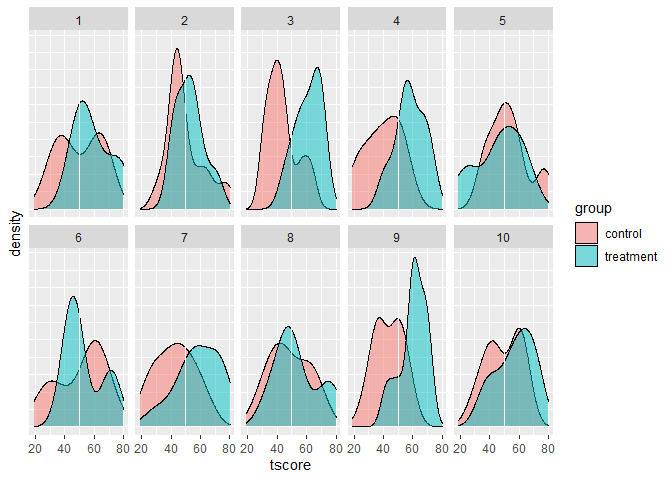
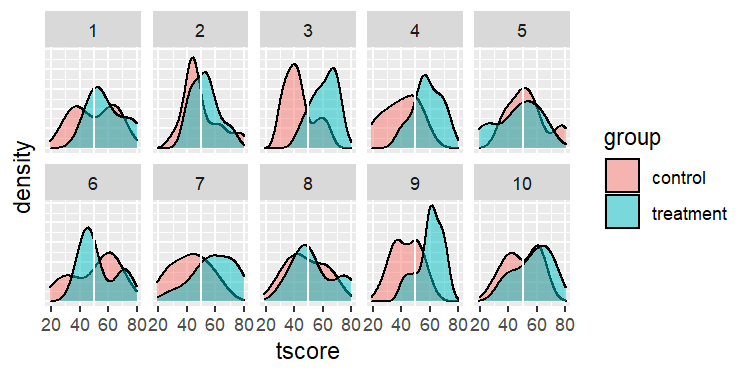
Renamed `levels` argument to `n_levels` since the former is a common keyword with factors

diff --git a/README.md b/README.md
@@ -28,7 +28,7 @@ The data simulation process is modularized as follows:
 1.  Simulate a number of subjects and assign to groups with
     `sim_subjects()`.
 2.  For each subject, simulate a number of goals with `sim_goals()`.
-3.  For each subject goal, simulate a treatment effect with
+3.  For each goal, simulate a treatment effect with
     `sim_treatment_effect()`.
 4.  For each goal, simulate a goal weight with `sim_goal_weights()`.
 5.  Get continuous latent goal scores by adding up the fixed and random
@@ -44,7 +44,7 @@ library(gasr)
 library(tidyverse, quietly = TRUE)
 #> -- Attaching packages --------------------------------------- tidyverse 1.3.1 --
 #> v ggplot2 3.3.3     v purrr   0.3.4
-#> v tibble  3.1.1     v dplyr   1.0.6
+#> v tibble  3.1.2     v dplyr   1.0.6
 #> v tidyr   1.1.3     v stringr 1.4.0
 #> v readr   1.4.0     v forcats 0.5.1
 #> -- Conflicts ------------------------------------------ tidyverse_conflicts() --
@@ -59,8 +59,8 @@ glimpse(gas_data)
 #> Rows: 50
 #> Columns: 3
 #> $ subject_id <chr> "S01", "S02", "S03", "S04", "S05", "S06", "S07", "S08", "S0~
-#> $ group      <fct> treatment, treatment, treatment, treatment, control, treatm~
-#> $ subject_re <dbl> 0.675412780, 0.290050723, -0.118313930, 0.703174467, 0.1851~
+#> $ group      <fct> control, treatment, treatment, treatment, control, treatmen~
+#> $ subject_re <dbl> 0.31952073, -0.27143896, 0.07326835, 0.27080308, 0.27568744~
 ```
 
 Add between 3 and 6 goals to each subject:
@@ -72,10 +72,10 @@ glimpse(gas_data)
 #> Rows: 50
 #> Columns: 5
 #> $ subject_id <chr> "S01", "S02", "S03", "S04", "S05", "S06", "S07", "S08", "S0~
-#> $ group      <fct> treatment, treatment, treatment, treatment, control, treatm~
-#> $ subject_re <dbl> 0.675412780, 0.290050723, -0.118313930, 0.703174467, 0.1851~
-#> $ n_goals    <int> 3, 3, 6, 3, 3, 6, 6, 6, 5, 3, 3, 6, 4, 5, 3, 4, 3, 4, 3, 3,~
-#> $ goals      <list> [<tbl_df[3 x 2]>], [<tbl_df[3 x 2]>], [<tbl_df[6 x 2]>], [~
+#> $ group      <fct> control, treatment, treatment, treatment, control, treatmen~
+#> $ subject_re <dbl> 0.31952073, -0.27143896, 0.07326835, 0.27080308, 0.27568744~
+#> $ n_goals    <int> 6, 6, 6, 5, 3, 6, 6, 5, 5, 6, 4, 4, 5, 5, 6, 3, 3, 6, 6, 5,~
+#> $ goals      <list> [<tbl_df[6 x 2]>], [<tbl_df[6 x 2]>], [<tbl_df[6 x 2]>], [~
 ```
 
 Note that `goals` is returned as a list column, so that the data frame
@@ -86,14 +86,14 @@ unnested with `tidyr` to return a data frame with one row per goal:
 gas_data %>%
   unnest(goals) %>%
   glimpse()
-#> Rows: 215
+#> Rows: 232
 #> Columns: 6
-#> $ subject_id <chr> "S01", "S01", "S01", "S02", "S02", "S02", "S03", "S03", "S0~
-#> $ group      <fct> treatment, treatment, treatment, treatment, treatment, trea~
-#> $ subject_re <dbl> 0.6754128, 0.6754128, 0.6754128, 0.2900507, 0.2900507, 0.29~
-#> $ n_goals    <int> 3, 3, 3, 3, 3, 3, 6, 6, 6, 6, 6, 6, 3, 3, 3, 3, 3, 3, 6, 6,~
-#> $ goal_num   <int> 1, 2, 3, 1, 2, 3, 1, 2, 3, 4, 5, 6, 1, 2, 3, 1, 2, 3, 1, 2,~
-#> $ goal_re    <dbl> 0.06895941, -0.35556240, -0.22453037, 0.12750825, -0.070752~
+#> $ subject_id <chr> "S01", "S01", "S01", "S01", "S01", "S01", "S02", "S02", "S0~
+#> $ group      <fct> control, control, control, control, control, control, treat~
+#> $ subject_re <dbl> 0.31952073, 0.31952073, 0.31952073, 0.31952073, 0.31952073,~
+#> $ n_goals    <int> 6, 6, 6, 6, 6, 6, 6, 6, 6, 6, 6, 6, 6, 6, 6, 6, 6, 6, 5, 5,~
+#> $ goal_num   <int> 1, 2, 3, 4, 5, 6, 1, 2, 3, 4, 5, 6, 1, 2, 3, 4, 5, 6, 1, 2,~
+#> $ goal_re    <dbl> -0.41899812, 0.14710269, -0.30369118, -0.07223033, 0.359862~
 ```
 
 A randomly sampled treatment effect can be added to each goal. This
@@ -113,10 +113,10 @@ glimpse(gas_data_nested)
 #> Rows: 50
 #> Columns: 5
 #> $ subject_id <chr> "S01", "S02", "S03", "S04", "S05", "S06", "S07", "S08", "S0~
-#> $ group      <fct> treatment, treatment, treatment, treatment, control, treatm~
-#> $ subject_re <dbl> 0.675412780, 0.290050723, -0.118313930, 0.703174467, 0.1851~
-#> $ n_goals    <int> 3, 3, 6, 3, 3, 6, 6, 6, 5, 3, 3, 6, 4, 5, 3, 4, 3, 4, 3, 3,~
-#> $ goals      <list> [<tbl_df[3 x 3]>], [<tbl_df[3 x 3]>], [<tbl_df[6 x 3]>], [~
+#> $ group      <fct> control, treatment, treatment, treatment, control, treatmen~
+#> $ subject_re <dbl> 0.31952073, -0.27143896, 0.07326835, 0.27080308, 0.27568744~
+#> $ n_goals    <int> 6, 6, 6, 5, 3, 6, 6, 5, 5, 6, 4, 4, 5, 5, 6, 3, 3, 6, 6, 5,~
+#> $ goals      <list> [<tbl_df[6 x 3]>], [<tbl_df[6 x 3]>], [<tbl_df[6 x 3]>], [~
 ```
 
 Method B is to unnest, group by subject, and apply:
@@ -129,14 +129,14 @@ gas_data <- gas_data %>%
   sim_treatment_effect(delta = 0.2) %>%
   ungroup()
 glimpse(gas_data)
-#> Rows: 215
+#> Rows: 232
 #> Columns: 7
-#> $ subject_id   <chr> "S01", "S01", "S01", "S02", "S02", "S02", "S03", "S03", "~
-#> $ group        <fct> treatment, treatment, treatment, treatment, treatment, tr~
-#> $ subject_re   <dbl> 0.6754128, 0.6754128, 0.6754128, 0.2900507, 0.2900507, 0.~
-#> $ n_goals      <int> 3, 3, 3, 3, 3, 3, 6, 6, 6, 6, 6, 6, 3, 3, 3, 3, 3, 3, 6, ~
-#> $ goal_num     <int> 1, 2, 3, 1, 2, 3, 1, 2, 3, 4, 5, 6, 1, 2, 3, 1, 2, 3, 1, ~
-#> $ goal_re      <dbl> 0.06895941, -0.35556240, -0.22453037, 0.12750825, -0.0707~
+#> $ subject_id   <chr> "S01", "S01", "S01", "S01", "S01", "S01", "S02", "S02", "~
+#> $ group        <fct> control, control, control, control, control, control, tre~
+#> $ subject_re   <dbl> 0.31952073, 0.31952073, 0.31952073, 0.31952073, 0.3195207~
+#> $ n_goals      <int> 6, 6, 6, 6, 6, 6, 6, 6, 6, 6, 6, 6, 6, 6, 6, 6, 6, 6, 5, ~
+#> $ goal_num     <int> 1, 2, 3, 4, 5, 6, 1, 2, 3, 4, 5, 6, 1, 2, 3, 4, 5, 6, 1, ~
+#> $ goal_re      <dbl> -0.41899812, 0.14710269, -0.30369118, -0.07223033, 0.3598~
 #> $ treatment_fe <dbl> 0.07395290, 0.28094961, 0.22933053, 0.06722077, 0.3775357~
 ```
 
@@ -163,33 +163,36 @@ gas_data <- gas_data %>%
   sim_goal_weights(weight_type = "preference" ) %>%
   ungroup()
 glimpse(gas_data)
-#> Rows: 215
+#> Rows: 232
 #> Columns: 8
-#> $ subject_id   <chr> "S01", "S01", "S01", "S02", "S02", "S02", "S03", "S03", "~
-#> $ group        <fct> treatment, treatment, treatment, treatment, treatment, tr~
-#> $ subject_re   <dbl> 0.6754128, 0.6754128, 0.6754128, 0.2900507, 0.2900507, 0.~
-#> $ n_goals      <int> 3, 3, 3, 3, 3, 3, 6, 6, 6, 6, 6, 6, 3, 3, 3, 3, 3, 3, 6, ~
-#> $ goal_num     <int> 1, 2, 3, 1, 2, 3, 1, 2, 3, 4, 5, 6, 1, 2, 3, 1, 2, 3, 1, ~
-#> $ goal_re      <dbl> 0.06895941, -0.35556240, -0.22453037, 0.12750825, -0.0707~
+#> $ subject_id   <chr> "S01", "S01", "S01", "S01", "S01", "S01", "S02", "S02", "~
+#> $ group        <fct> control, control, control, control, control, control, tre~
+#> $ subject_re   <dbl> 0.31952073, 0.31952073, 0.31952073, 0.31952073, 0.3195207~
+#> $ n_goals      <int> 6, 6, 6, 6, 6, 6, 6, 6, 6, 6, 6, 6, 6, 6, 6, 6, 6, 6, 5, ~
+#> $ goal_num     <int> 1, 2, 3, 4, 5, 6, 1, 2, 3, 4, 5, 6, 1, 2, 3, 4, 5, 6, 1, ~
+#> $ goal_re      <dbl> -0.41899812, 0.14710269, -0.30369118, -0.07223033, 0.3598~
 #> $ treatment_fe <dbl> 0.07395290, 0.28094961, 0.22933053, 0.06722077, 0.3775357~
-#> $ goal_weight  <int> 3, 1, 2, 1, 3, 2, 2, 3, 1, 6, 5, 4, 2, 1, 3, 2, 1, 3, 6, ~
+#> $ goal_weight  <int> 6, 2, 1, 5, 3, 4, 3, 6, 2, 5, 4, 1, 6, 1, 3, 2, 5, 4, 5, ~
 ```
 
 There are a few different options of goal weights available, which are
 explained in the function documentation (`?sim_goal_weights`). The
 “preference” weights here randomly apply integer weights from 1 to the
-number of goals per subject. For instance, this subject with 3 goals:
+number of goals per subject. For instance, this subject with 6 goals:
 
 ``` r
 gas_data %>%
   filter(subject_id == "S01") %>%
   select(n_goals, goal_num, goal_weight)
-#> # A tibble: 3 x 3
+#> # A tibble: 6 x 3
 #>   n_goals goal_num goal_weight
 #>     <int>    <int>       <int>
-#> 1       3        1           3
-#> 2       3        2           1
-#> 3       3        3           2
+#> 1       6        1           6
+#> 2       6        2           2
+#> 3       6        3           1
+#> 4       6        4           5
+#> 5       6        5           3
+#> 6       6        6           4
 ```
 
 The next step is to apply all of the fixed and random effects to get a
@@ -202,17 +205,17 @@ gas_data <- gas_data %>%
       subject_re + goal_re
   )
 glimpse(gas_data)
-#> Rows: 215
+#> Rows: 232
 #> Columns: 9
-#> $ subject_id       <chr> "S01", "S01", "S01", "S02", "S02", "S02", "S03", "S03~
-#> $ group            <fct> treatment, treatment, treatment, treatment, treatment~
-#> $ subject_re       <dbl> 0.6754128, 0.6754128, 0.6754128, 0.2900507, 0.2900507~
-#> $ n_goals          <int> 3, 3, 3, 3, 3, 3, 6, 6, 6, 6, 6, 6, 3, 3, 3, 3, 3, 3,~
-#> $ goal_num         <int> 1, 2, 3, 1, 2, 3, 1, 2, 3, 4, 5, 6, 1, 2, 3, 1, 2, 3,~
-#> $ goal_re          <dbl> 0.06895941, -0.35556240, -0.22453037, 0.12750825, -0.~
+#> $ subject_id       <chr> "S01", "S01", "S01", "S01", "S01", "S01", "S02", "S02~
+#> $ group            <fct> control, control, control, control, control, control,~
+#> $ subject_re       <dbl> 0.31952073, 0.31952073, 0.31952073, 0.31952073, 0.319~
+#> $ n_goals          <int> 6, 6, 6, 6, 6, 6, 6, 6, 6, 6, 6, 6, 6, 6, 6, 6, 6, 6,~
+#> $ goal_num         <int> 1, 2, 3, 4, 5, 6, 1, 2, 3, 4, 5, 6, 1, 2, 3, 4, 5, 6,~
+#> $ goal_re          <dbl> -0.41899812, 0.14710269, -0.30369118, -0.07223033, 0.~
 #> $ treatment_fe     <dbl> 0.07395290, 0.28094961, 0.22933053, 0.06722077, 0.377~
-#> $ goal_weight      <int> 3, 1, 2, 1, 3, 2, 2, 3, 1, 6, 5, 4, 2, 1, 3, 2, 1, 3,~
-#> $ score_continuous <dbl> 0.81832509, 0.60079999, 0.68021295, 0.48477974, 0.596~
+#> $ goal_weight      <int> 6, 2, 1, 5, 3, 4, 3, 6, 2, 5, 4, 1, 6, 1, 3, 2, 5, 4,~
+#> $ score_continuous <dbl> -0.0994773905, 0.4666234174, 0.0158295496, 0.24729039~
 
 gas_data %>%
   ggplot(aes(y = group, x = score_continuous, color = group)) +
@@ -229,7 +232,7 @@ observed variable. Use the `create_thresholds()` function to create
 equally spaced thresholds on the latent variable score:
 
 ``` r
-thresh <- create_thresholds(levels = 5)
+thresh <- create_thresholds(n_levels = 5)
 thresh
 #> [1]       -Inf -0.8416212 -0.2533471  0.2533471  0.8416212        Inf
 ```
@@ -273,19 +276,19 @@ which simulates a single trial:
 ``` r
 d <- sim_trial()
 glimpse(d)
-#> Rows: 182
+#> Rows: 179
 #> Columns: 11
-#> $ subject_id       <chr> "S01", "S01", "S01", "S01", "S01", "S02", "S02", "S02~
-#> $ group            <fct> control, control, control, control, control, control,~
-#> $ subject_re       <dbl> 0.07663347, 0.07663347, 0.07663347, 0.07663347, 0.076~
-#> $ n_goals          <int> 5, 5, 5, 5, 5, 6, 6, 6, 6, 6, 6, 6, 6, 6, 6, 6, 6, 4,~
-#> $ goal_num         <int> 1, 2, 3, 4, 5, 1, 2, 3, 4, 5, 6, 1, 2, 3, 4, 5, 6, 1,~
-#> $ goal_re          <dbl> 1.06658727, 0.21572799, -0.20027135, -0.98217913, 0.4~
-#> $ treatment_fe     <dbl> 0.24732868, 0.54151534, 0.27305278, 0.08345396, 0.478~
+#> $ subject_id       <chr> "S01", "S01", "S01", "S01", "S02", "S02", "S02", "S03~
+#> $ group            <fct> treatment, treatment, treatment, treatment, treatment~
+#> $ subject_re       <dbl> 0.87622970, 0.87622970, 0.87622970, 0.87622970, -1.00~
+#> $ n_goals          <int> 4, 4, 4, 4, 3, 3, 3, 4, 4, 4, 4, 4, 4, 4, 4, 6, 6, 6,~
+#> $ goal_num         <int> 1, 2, 3, 4, 1, 2, 3, 1, 2, 3, 4, 1, 2, 3, 4, 1, 2, 3,~
+#> $ goal_re          <dbl> 0.71485917, -1.00022291, -0.94106351, -0.64104661, -0~
+#> $ treatment_fe     <dbl> 0.474106143, 0.333823757, 0.154467192, 0.035884032, 0~
 #> $ goal_weight      <dbl> 1, 1, 1, 1, 1, 1, 1, 1, 1, 1, 1, 1, 1, 1, 1, 1, 1, 1,~
-#> $ score_continuous <dbl> 1.14322074, 0.29236146, -0.12363787, -0.90554566, 0.5~
-#> $ score_discrete   <dbl> 2, 1, 0, -2, 1, -1, 0, 1, 1, -1, 0, 1, -1, 0, 1, -1, ~
-#> $ tscore           <dbl> 56.03023, 56.03023, 56.03023, 56.03023, 56.03023, 50.~
+#> $ score_continuous <dbl> 2.06519502, 0.20983055, 0.08963339, 0.27106712, -0.67~
+#> $ score_discrete   <dbl> 2, 0, 0, 1, -1, -2, -1, 2, 0, 0, 0, 1, 2, 2, 0, -1, -~
+#> $ tscore           <dbl> 60.88214, 60.88214, 60.88214, 60.88214, 31.74258, 31.~
 ```
 
 Those defaults are listed below:
@@ -319,7 +322,7 @@ formals(sim_trial)
 #> $weight_type
 #> [1] "unweighted"
 #> 
-#> $levels
+#> $n_levels
 #> [1] 5
 #> 
 #> $centre
@@ -353,16 +356,16 @@ sim_trial(n_subjects = 20, n_goals = 3, delta = 0.5) %>%
 #> Rows: 60
 #> Columns: 11
 #> $ subject_id       <chr> "S01", "S01", "S01", "S02", "S02", "S02", "S03", "S03~
-#> $ group            <fct> treatment, treatment, treatment, control, control, co~
-#> $ subject_re       <dbl> 0.44607218, 0.44607218, 0.44607218, 0.43226602, 0.432~
+#> $ group            <fct> treatment, treatment, treatment, treatment, treatment~
+#> $ subject_re       <dbl> -0.19069799, -0.19069799, -0.19069799, -0.60849046, -~
 #> $ n_goals          <dbl> 3, 3, 3, 3, 3, 3, 3, 3, 3, 3, 3, 3, 3, 3, 3, 3, 3, 3,~
 #> $ goal_num         <int> 1, 2, 3, 1, 2, 3, 1, 2, 3, 1, 2, 3, 1, 2, 3, 1, 2, 3,~
-#> $ goal_re          <dbl> 0.36943025, 0.38667027, -0.09746619, 0.37740501, -0.5~
-#> $ treatment_fe     <dbl> 0.62521844, 0.98965780, 0.63032012, 0.49402801, 0.200~
+#> $ goal_re          <dbl> -0.10167264, 0.39003476, -0.49797173, 0.63681266, 0.1~
+#> $ treatment_fe     <dbl> 0.557580325, 0.058427635, 0.201604024, 0.820417159, 0~
 #> $ goal_weight      <dbl> 1, 1, 1, 1, 1, 1, 1, 1, 1, 1, 1, 1, 1, 1, 1, 1, 1, 1,~
-#> $ score_continuous <dbl> 1.4407209, 1.8224002, 0.9789261, 0.8096710, -0.141939~
-#> $ score_discrete   <dbl> 2, 2, 2, 1, 0, 2, 2, 2, 2, 0, 0, -1, -2, 1, -1, 1, 1,~
-#> $ tscore           <dbl> 77.38613, 77.38613, 77.38613, 63.69306, 63.69306, 63.~
+#> $ score_continuous <dbl> 0.265209687, 0.257764402, -0.487065703, 0.848739354, ~
+#> $ score_discrete   <dbl> 1, 1, -1, 2, 1, 0, 2, 1, 1, 1, 0, -1, -1, -1, 0, 2, 0~
+#> $ tscore           <dbl> 54.56435, 54.56435, 54.56435, 63.69306, 63.69306, 63.~
 ```
 
 To incorporate the third step, it is recommended to write a custom
@@ -379,8 +382,7 @@ run_simulations <- function(seed, n_sim, n_subjects, delta) {
     mutate(
       data = map(
         sim,
-        ~sim_trial(n_subjects = n_subjects,
-                   delta = delta)
+        ~sim_trial(n_subjects = n_subjects, delta = delta)
       ),
       seed = seed,
       n_subjects = n_subjects, delta = delta
@@ -397,7 +399,7 @@ tic()
 sims1 <- run_simulations(seed = 52, n_sim = 100,
                          n_subjects = 20, delta = 0.3)
 toc()
-#> 2.78 sec elapsed
+#> 2.86 sec elapsed
 ```
 
 The custom function returns a row per simulation, with the data nested
@@ -421,7 +423,7 @@ sims1 %>%
 
 ## Todo
 
--   Update documentaiton for `sim_trial`
+-   Update documentation for `sim_trial`
 -   Continue `data-generating-model` vignette
 -   Write unit tests
 -   Write `power-calculation` vignette
